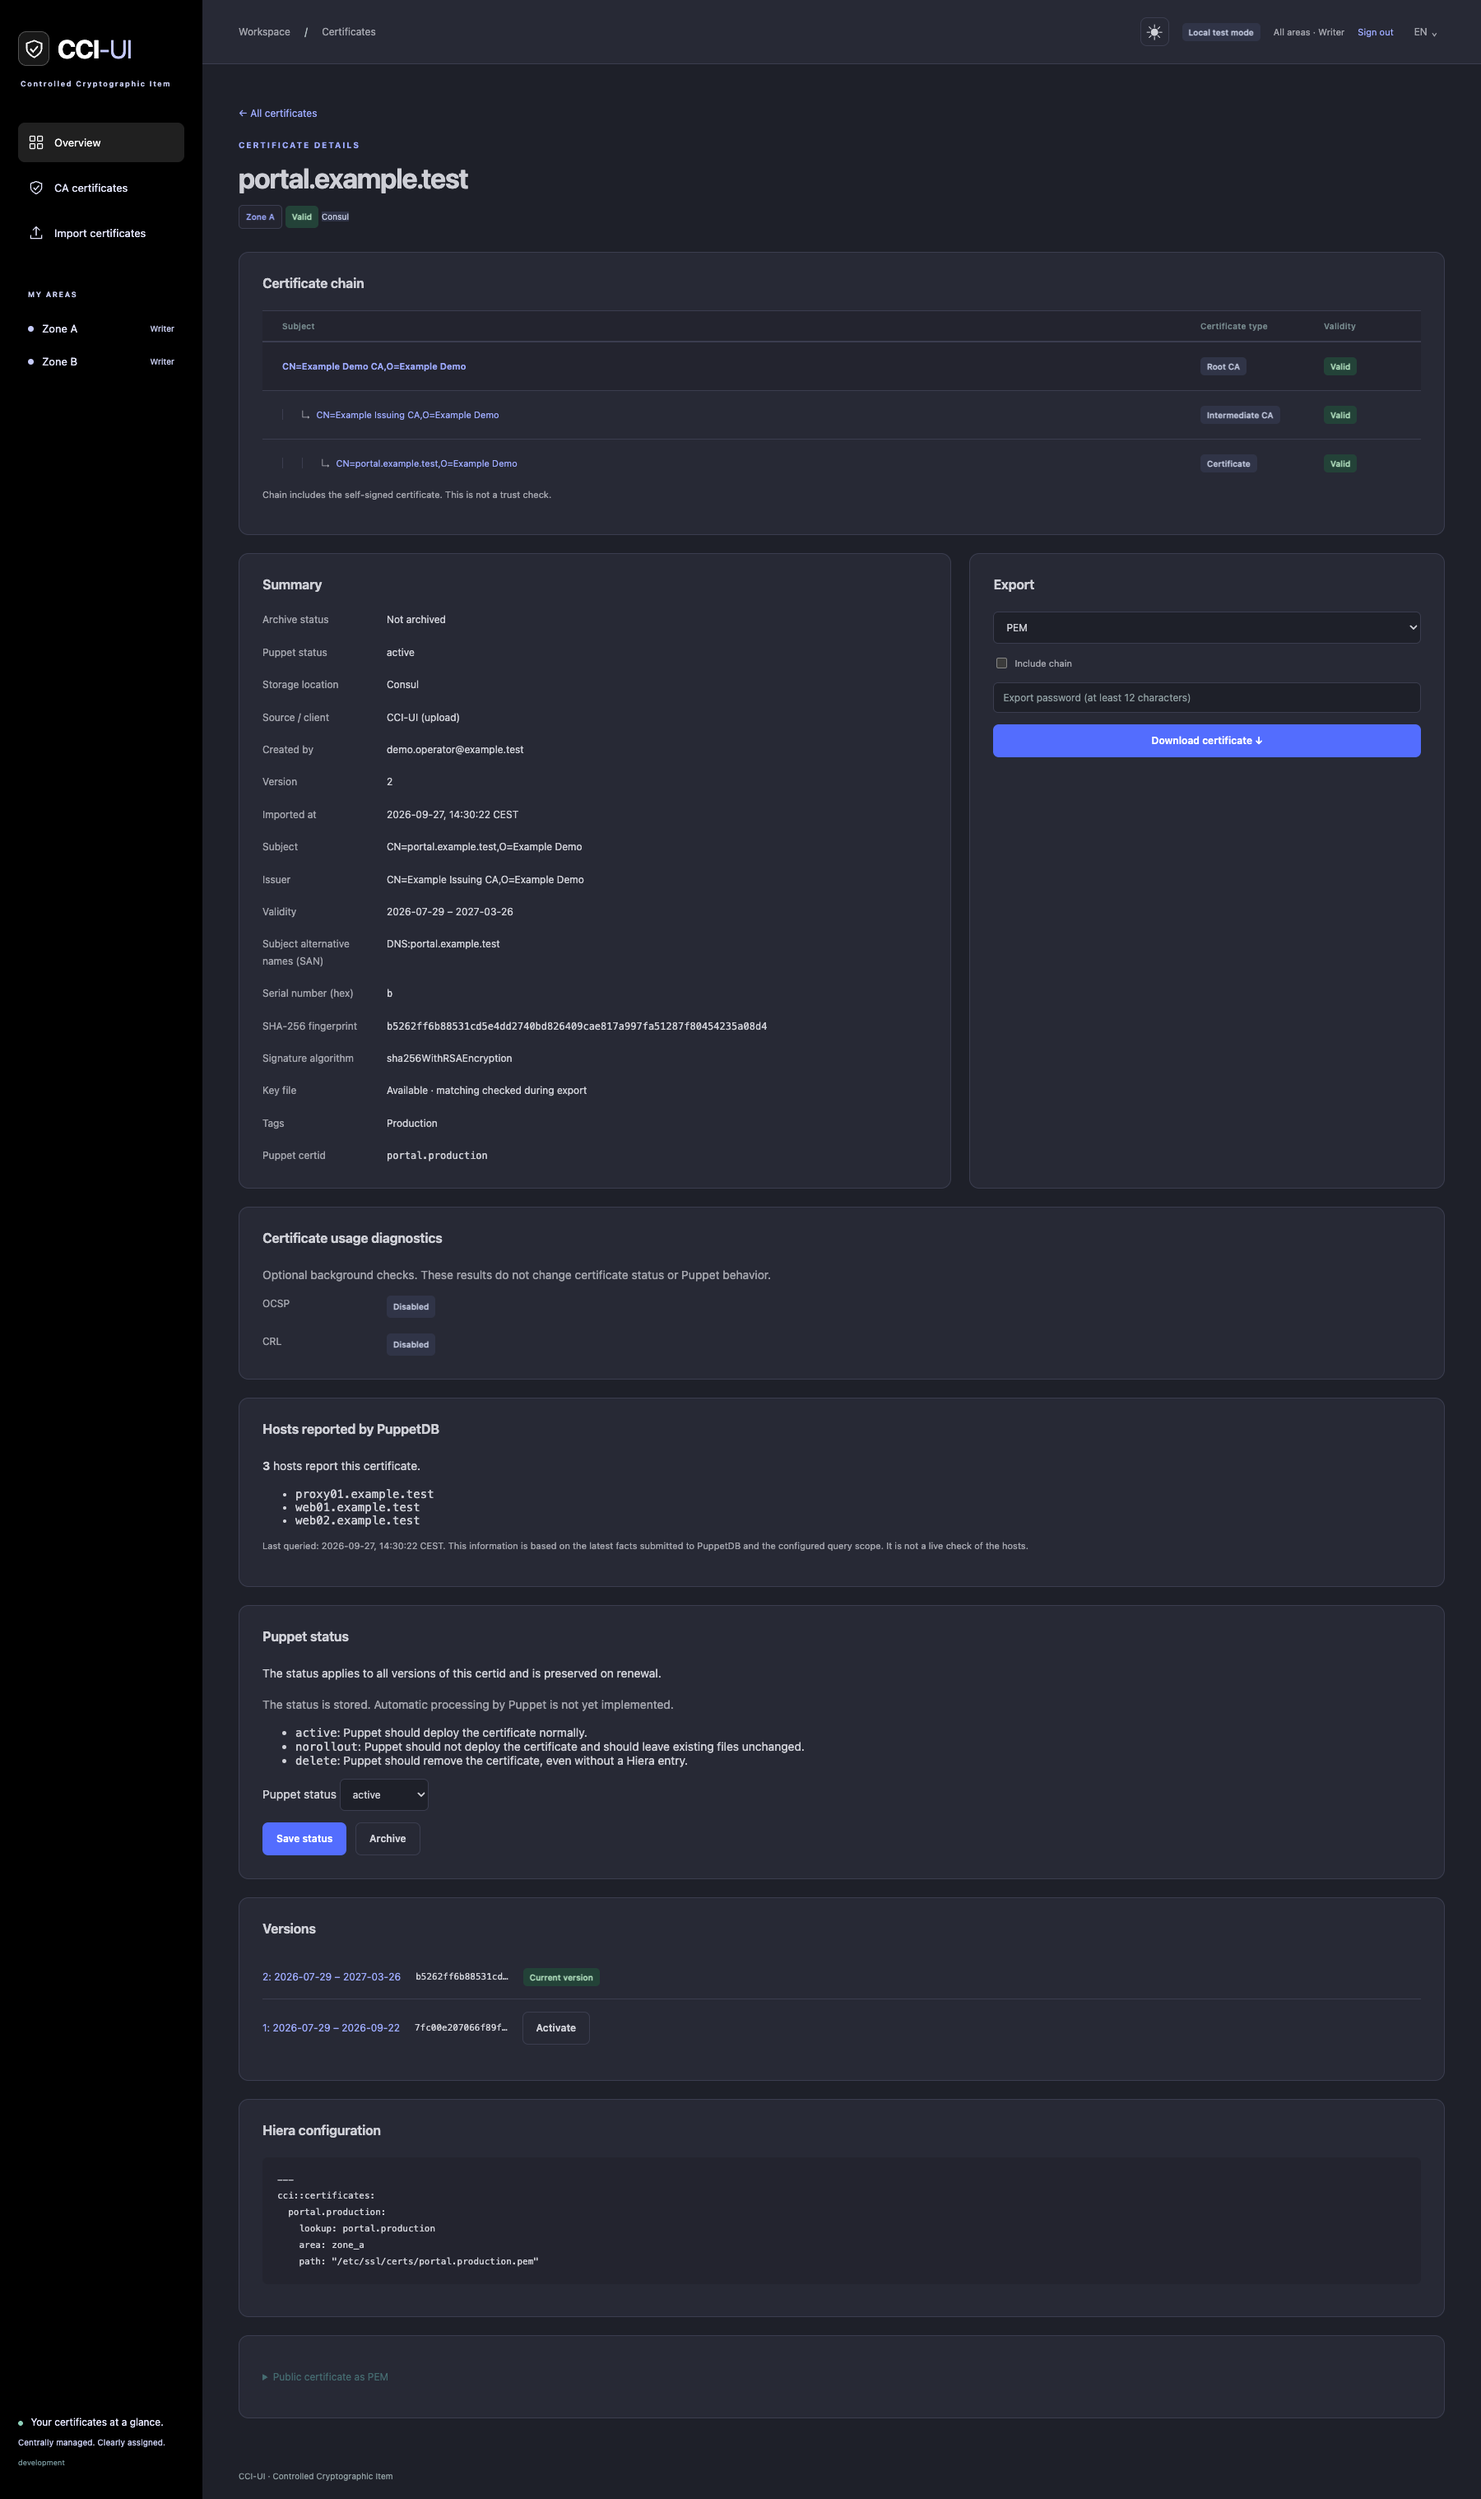
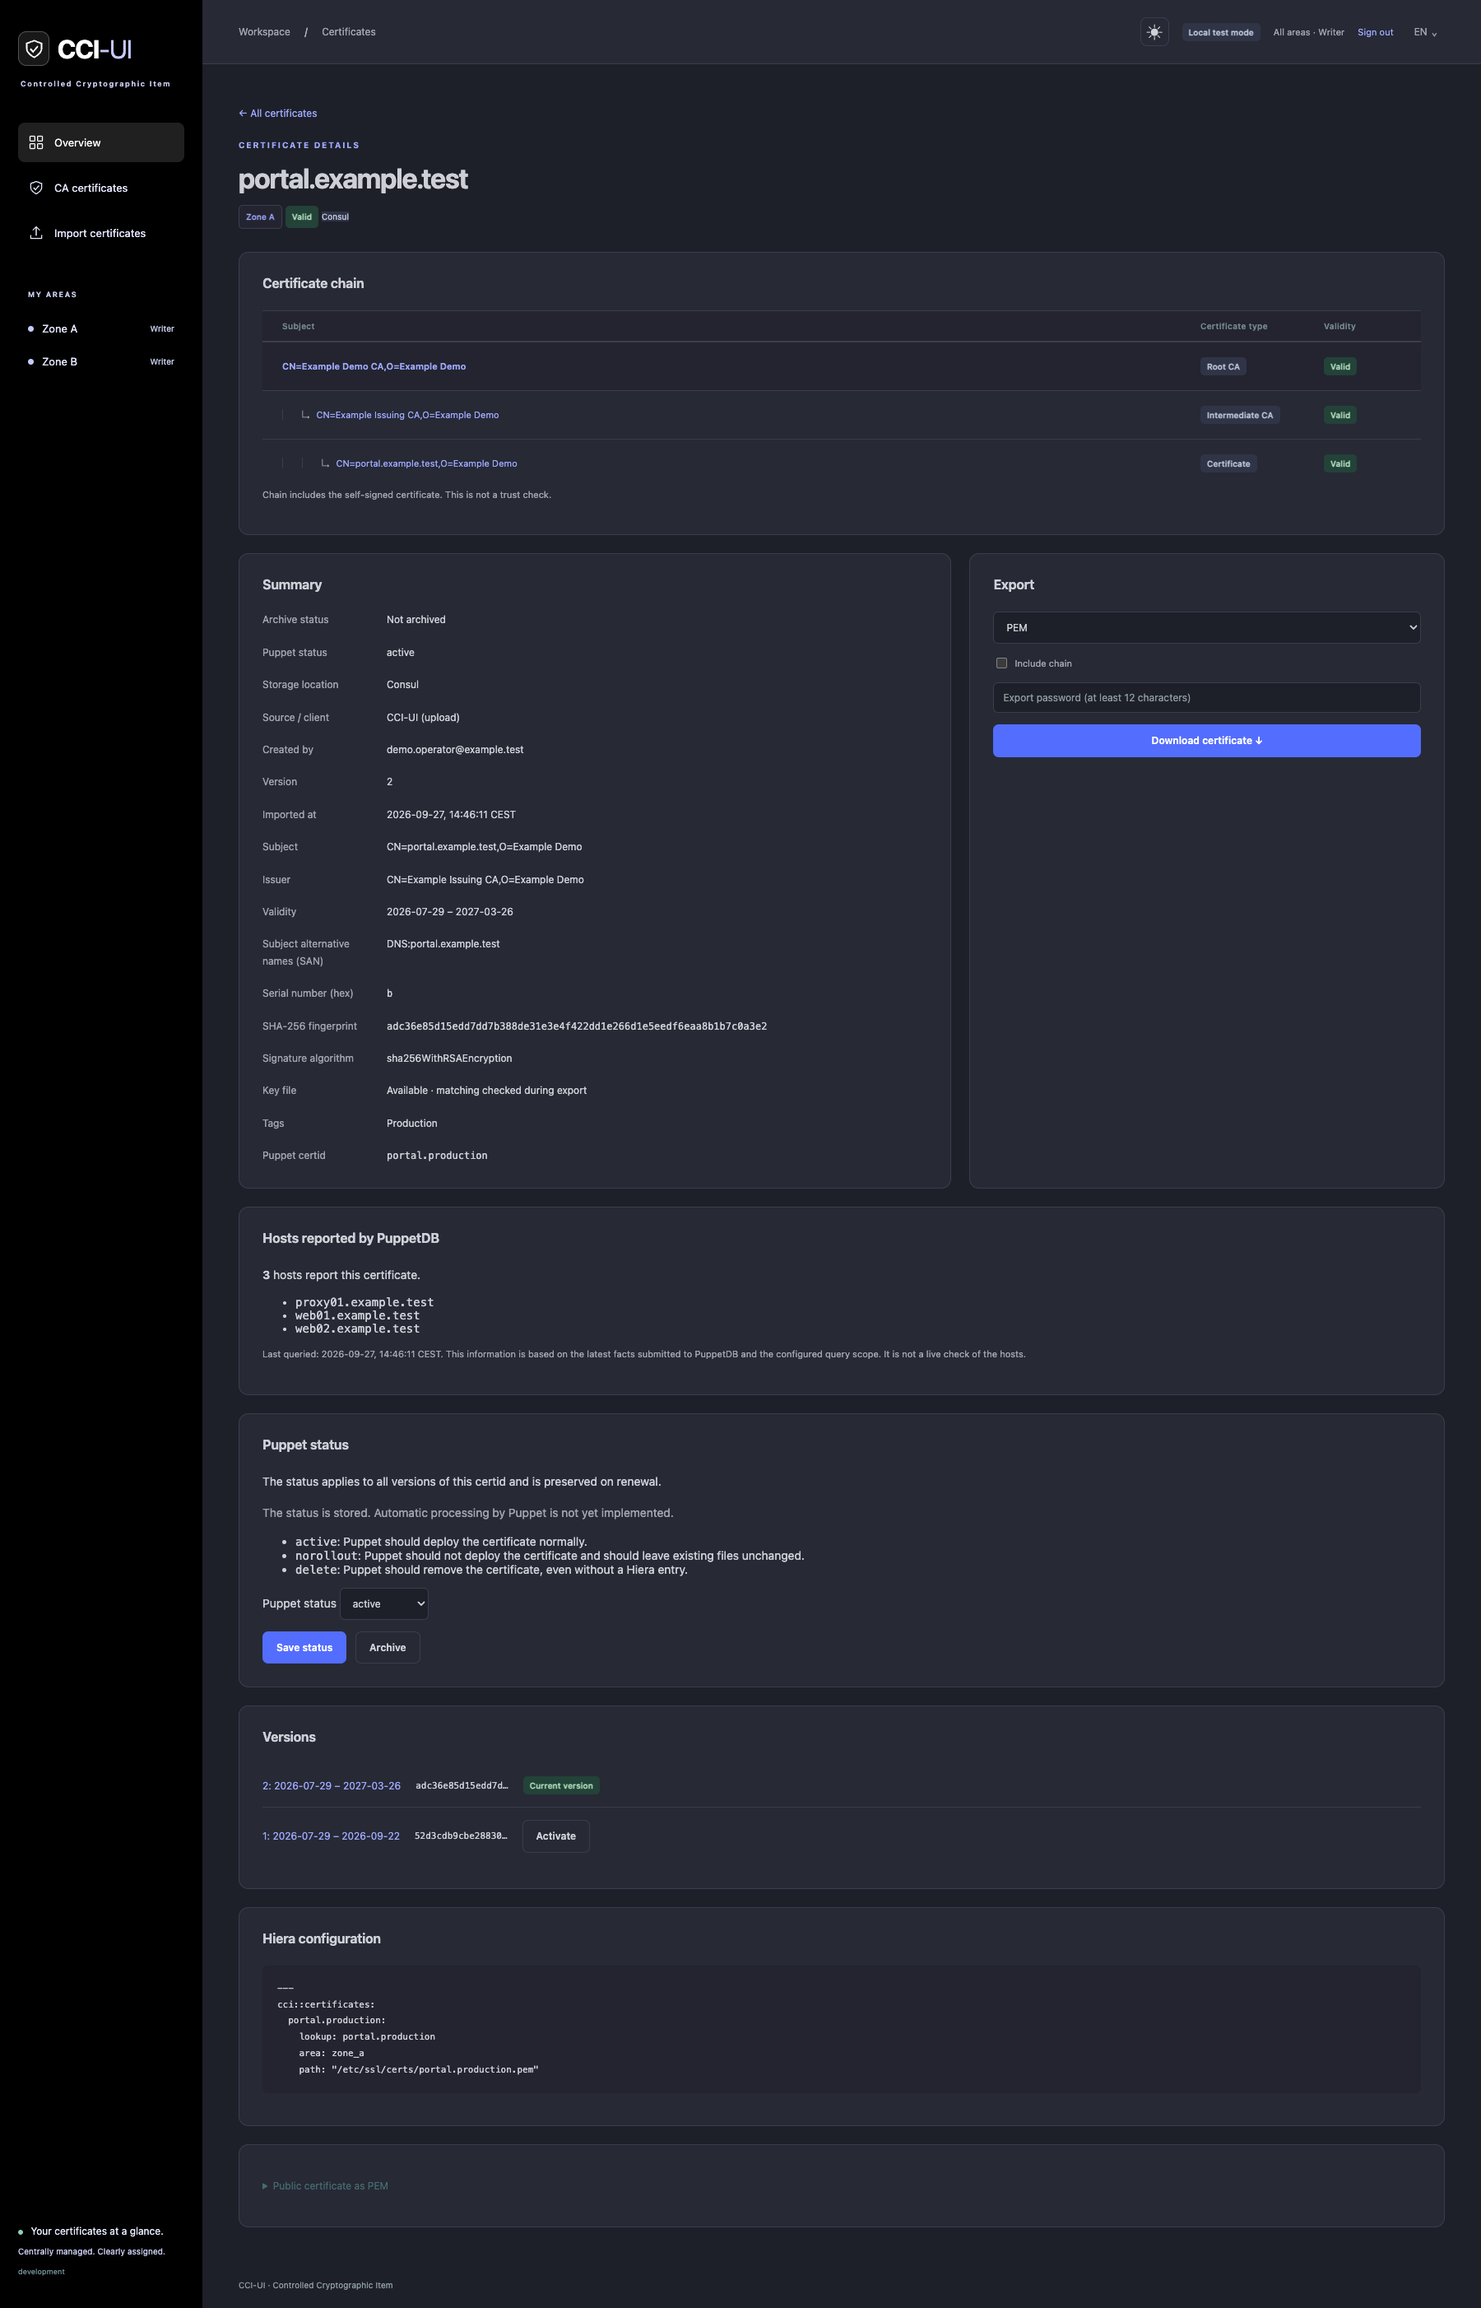
fix(certificates): hide disabled diagnostic checks

diff --git a/test/integration/certificate_diagnostics_test.rb b/test/integration/certificate_diagnostics_test.rb
@@ -3,6 +3,18 @@
 require "test_helper"
 
 class CertificateDiagnosticsRenderingTest < ActionDispatch::IntegrationTest
+  setup do
+    @previous_ocsp = ENV.fetch("CCI_OCSP_ENABLED", nil)
+    @previous_crl = ENV.fetch("CCI_CRL_ENABLED", nil)
+    ENV["CCI_OCSP_ENABLED"] = "true"
+    ENV["CCI_CRL_ENABLED"] = "true"
+  end
+
+  teardown do
+    ENV["CCI_OCSP_ENABLED"] = @previous_ocsp
+    ENV["CCI_CRL_ENABLED"] = @previous_crl
+  end
+
   test "detail requests only render persisted evidence in both languages and preserve visibility" do
     record = store(issue.first)
     hidden = store(issue.first, area: "zone_b", certid: "hidden")
@@ -17,5 +29,28 @@ class CertificateDiagnosticsRenderingTest < ActionDispatch::IntegrationTest
     assert_empty CertificateDiagnosticResult.all
     get certificate_path(hidden)
     assert_response :not_found
+  end
+
+  test "only enabled checks appear even when disabled checks have stored evidence" do
+    record = store(issue.first)
+    %w[ocsp crl].each do |check|
+      CertificateDiagnosticResult.create!(area: record.area, fingerprint: record.fingerprint, check_id: check,
+        state: "good", reason: "good", checked_at: Time.current, expires_at: 1.hour.from_now, next_due_at: 1.hour.from_now)
+    end
+    post local_login_path, params: { identity: "zone_a_reader" }
+    [[], ["ocsp"], ["crl"], %w[ocsp crl]].each do |enabled|
+      ENV["CCI_OCSP_ENABLED"] = enabled.include?("ocsp").to_s
+      ENV["CCI_CRL_ENABLED"] = enabled.include?("crl").to_s
+      %w[en de].each do |locale|
+        get certificate_path(record, locale: locale)
+        assert_response :success
+        assert_select "#diagnostics-heading", count: enabled.empty? ? 0 : 1
+        assert_select ".certificate-diagnostics > dt", text: "OCSP", count: enabled.include?("ocsp") ? 1 : 0
+        assert_select ".certificate-diagnostics > dt", text: "CRL", count: enabled.include?("crl") ? 1 : 0
+        assert_select ".certificate-diagnostics .badge.success", count: enabled.size
+        assert_select ".certificate-diagnostics .badge.neutral", count: 0
+      end
+    end
+    assert_equal 2, CertificateDiagnosticResult.count
   end
 end

diff --git a/docs/certificate-diagnostics.md b/docs/certificate-diagnostics.md
@@ -1,6 +1,8 @@
 # Certificate usage diagnostics
 
 Diagnostics are optional, read-only observations on the certificate detail page.
+Only enabled checks appear. When all checks are disabled, the entire diagnostics
+section is hidden; disabled checks show no status, even if earlier evidence is stored.
 They do not change date status, summary counts, imports, CSR publication, exports,
 activation, archiving or Puppet behavior. German and English statuses include text
 as well as color. A self-signed certificate receives a neutral not-applicable
